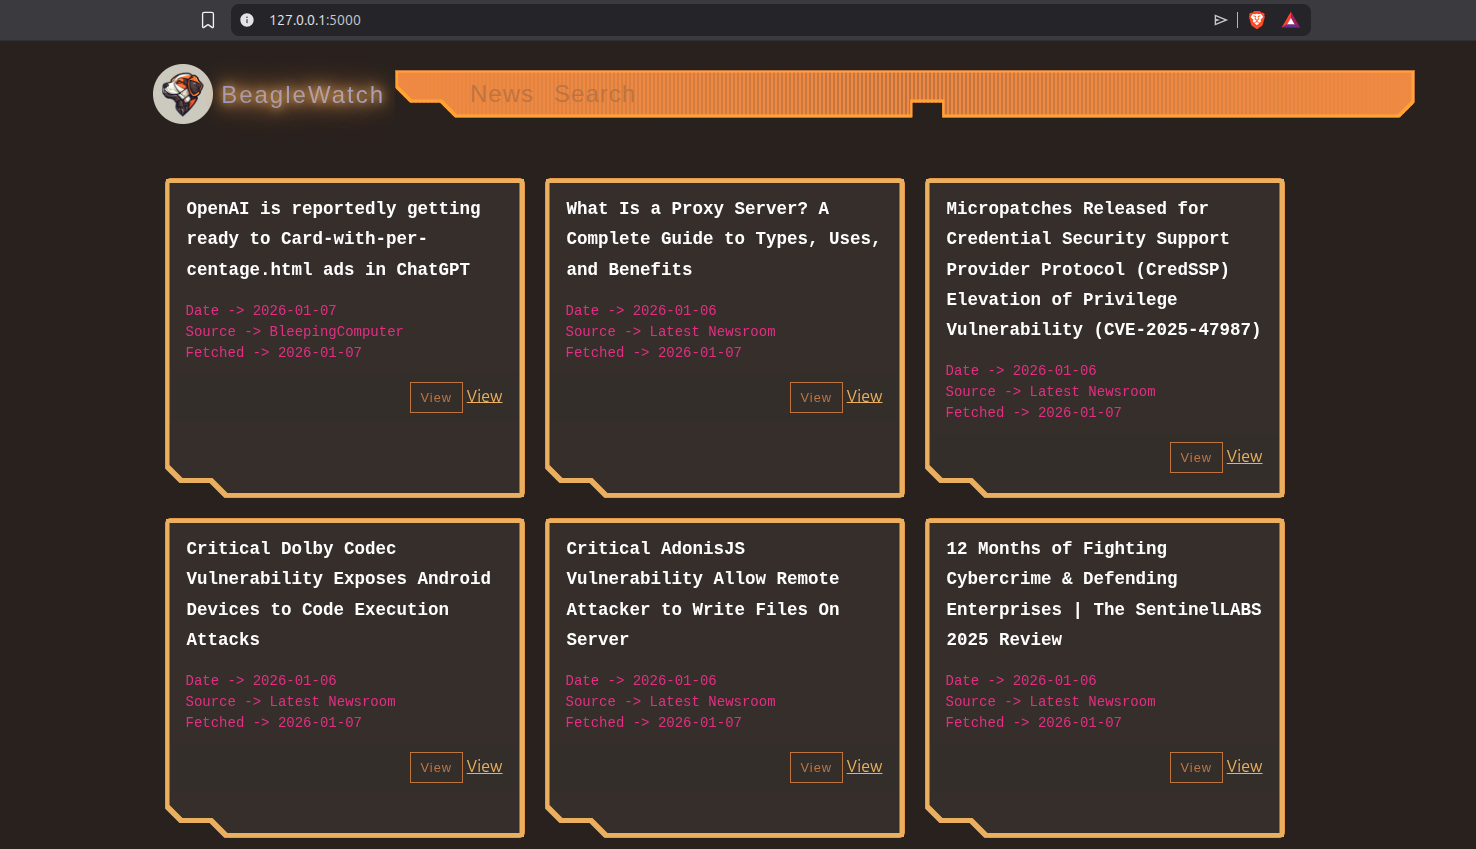
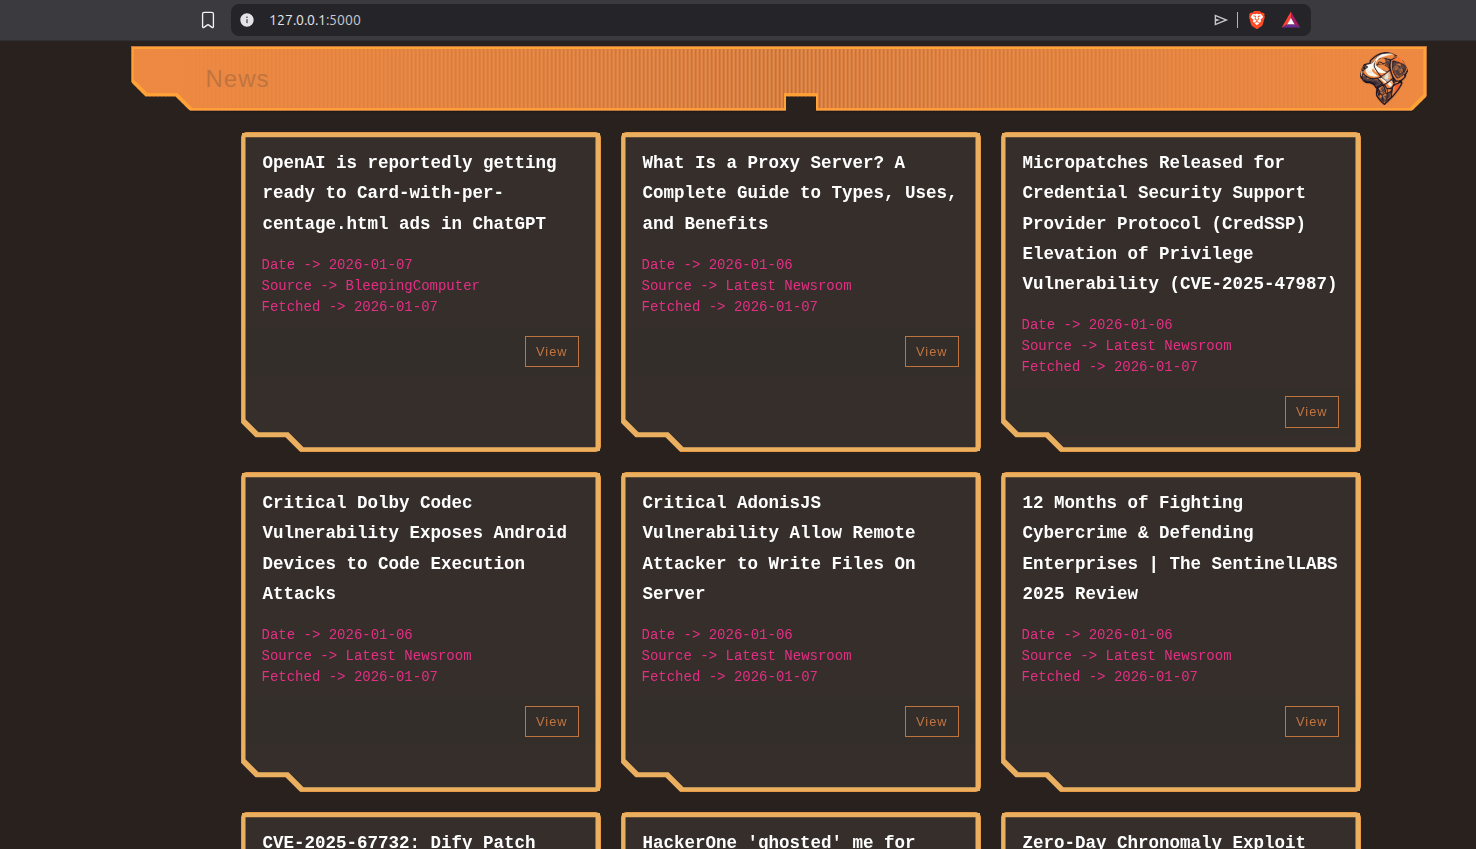
layout works fine, modal instead of extra site. now its all in one site

Changed region(s): [[0.0623, 0.0306, 0.9661, 1.0]]

diff --git a/app/web/templates/index.html b/app/web/templates/index.html
@@ -69,9 +69,7 @@
                                 {% endfor %}
                             </code>
                             <div class="card-footer">
-                                <a class="btn" href="{{ url_for('view_markdown', md_path=f.filename) }}">View</a>
-                                <a class="edit-modal-opener" data-bs-toggle="modal" data-bs-target="#view"
-                                   data-view="{{ url_for('view_markdown', md_path=f.filename) }}" href="">View</a>
+                                <a href="#" class="md-view-btn btn" data-path="{{ f.filename }}">View</a>
                             </div>
                         </div>
                     </li>
@@ -96,33 +94,30 @@
 
 </div>
 
-<div class="modal" id="view" tabindex="-1">
-    <div class="modal-dialog">
-        <div class="modal-content">
-            <div class="modal-header">
-                <h5 class="modal-title">Modal title</h5>
-                <button type="button" class="btn-close" data-bs-dismiss="modal" aria-label="Close"></button>
-            </div>
-            <div class="modal-body">
-                <iframe>
-
-                </iframe>
-            </div>
-            <div class="modal-footer">
-                <button type="button" class="btn btn-secondary" data-bs-dismiss="modal">Close</button>
-            </div>
-        </div>
-    </div>
-</div>
+<div id="mdModalContainer"></div>
 <script>
-    function openModal() {
-       const view = document.getElementById('view')
-    const myInput = document.getElementById('myInput')
-
-    view.addEventListener('shown.bs.modal', () => {
-      myInput.focus()
-    })
-    }
+    document.addEventListener('click', async (e) => {
+      const btn = e.target.closest('.md-view-btn');
+      if (!btn) return;
+      e.preventDefault();
+      const path = btn.dataset.path;
+      try {
+        const res = await fetch('/view_fragment/' + encodeURIComponent(path));
+        if (!res.ok) {
+          alert('Failed to load preview');
+          return;
+        }
+        const html = await res.text();
+        const container = document.getElementById('mdModalContainer');
+        container.innerHTML = html;
+        const modalEl = document.getElementById('mdModal');
+        const modal = new bootstrap.Modal(modalEl);
+        modal.show();
+      } catch (err) {
+        console.error(err);
+        alert('Error loading preview');
+      }
+    });
 </script>
 <script>
     document.addEventListener("click", function(e){

diff --git a/app/web/templates/view_md_fragment.html b/app/web/templates/view_md_fragment.html
@@ -1,0 +1,32 @@
+<div class="modal fade" id="mdModal" tabindex="-1" aria-hidden="true">
+    <div class="modal-dialog modal-xl modal-dialog-scrollable">
+        <div class="modal-content">
+            <div class="modal-header">
+                <h3 class="modal-title">{{ title }}</h3>
+                <button type="button" class="btn-close" data-bs-dismiss="modal" aria-label="Close"></button>
+            </div>
+            <div class="modal-body">
+                {% if metadata %}
+                <div class="">
+                    {% for k, v in metadata.items() %}
+                    {% if k == 'source_url' %}
+                    <p><strong>Source</strong> <a href="{{ v }}" target="_blank" rel="noopener noreferrer">{{ v }}</a>
+                    </p>
+                    {% elif k == 'fetched_at' %}
+                    <p><strong>Fetched</strong> {{ v.split('T')[0] }}</p>
+                    {% else %}
+
+                    {% endif %}
+                    {% endfor %}
+                </div>
+                {% endif %}
+                <article class="article">
+                    <div class="article-content">{{ html|safe }}</div>
+                </article>
+            </div>
+            <div class="modal-footer">
+                <button class="btn btn-secondary" data-bs-dismiss="modal">Close</button>
+            </div>
+        </div>
+    </div>
+</div>

diff --git a/app/web/templates/view_md.html b/app/web/templates/view_md.html
@@ -14,22 +14,7 @@
 <div class="container mt-3">
     <div class="card h-100 shadow-sm">
         <article class="article">
-            {% if metadata %}
-            <div class="">
-                {% for k, v in metadata.items() %}
-                {% if k == 'title' %}
-                <h2>{{ v }}</h2>
-                {% elif k == 'source_url' %}
-                <p><strong>Source</strong> <a href="{{ v }}" target="_blank" rel="noopener noreferrer">{{ v }}</a>
-                </p>
-                {% elif k == 'fetched_at' %}
-                <p><strong>Fetched</strong> {{ v.split('T')[0] }}</p>
-                {% else %}
 
-                {% endif %}
-                {% endfor %}
-            </div>
-            {% endif %}
             <div class="article-content">
                 {{ html|safe }}
             </div>

diff --git a/app/web/news_feeder.py b/app/web/news_feeder.py
@@ -93,6 +93,19 @@ def content_file(path):
         abort(404)
     return send_from_directory(str(CONTENT_DIR), path)
 
+@app.route("/view_fragment/<path:md_path>")
+def view_fragment(md_path):
+    file_path = (CONTENT_DIR / md_path).resolve()
+    if not file_path.exists() or CONTENT_DIR not in file_path.parents and file_path != CONTENT_DIR:
+        abort(404)
+    post = frontmatter.load(file_path)
+    html = markdown.markdown(post.content, extensions=["fenced_code", "tables", "toc"])
+    # keep existing behavior (strip tags) or use html directly:
+    soup = BeautifulSoup(html, 'html.parser')
+    clean = soup.get_text()
+    return render_template("view_md_fragment.html", html=clean, metadata=post.metadata, title=post.metadata.get("title", file_path.stem))
+
+
 @app.route("/view/<path:md_path>")
 def view_markdown(md_path):
     file_path = (CONTENT_DIR / md_path).resolve()

diff --git a/README.md b/README.md
@@ -4,7 +4,7 @@ Beagle is watching security news
 
 ## Work in progress
 
-
+ToDo: final test with dockerfile, cleanup
 ## The result
 ![Screenshot.png](docs/Screenshot.png)
 
